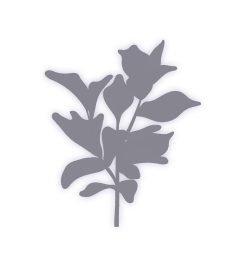
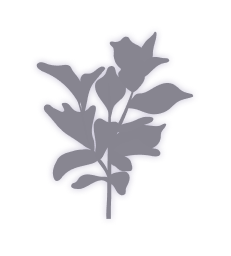
plant animation with progress

diff --git a/screens/timer-screen.tsx b/screens/timer-screen.tsx
@@ -18,7 +18,7 @@ import { Button } from "../components/elements/button";
 import { Habit } from "../types/habit";
 import { useSelector } from "react-redux";
 import { GlobalStore } from "../redux/store";
-import { Clock, useDerivedValue } from "react-native-reanimated";
+import InfoIcon from "../components/svgs/info-icon";
 
 const { width: screenWidth, height: screenHeight } = Dimensions.get("screen");
 
@@ -64,6 +64,11 @@ export const TimerScreen = () => {
     }
   });
 
+  const curProgress: number =
+    (((timer - (habit?.duration || 1) * 60) * -1) /
+      ((habit?.duration || 1) * 60)) *
+    100;
+
   useEffect(() => {
     if (timer === 0) {
       if (timerCounter.current) {
@@ -91,6 +96,17 @@ export const TimerScreen = () => {
     setState(state === "stopped" || state === "paused" ? "playing" : "paused");
   };
 
+  let plantResource = require("../assets/plant/plant_dark.png");
+  if (state === "stopped") {
+    plantResource = require("../assets/plant/plant_dark.png");
+  } else if (curProgress >= 0 && curProgress < 50 && state !== "stopped") {
+    plantResource = require("../assets/plant/plant_small.png");
+  } else if (curProgress >= 100) {
+    plantResource = require("../assets/plant/plant_glow.png");
+  } else {
+    plantResource = require("../assets/plant/plant_normal.png");
+  }
+
   return (
     <View style={TimeScreenStyles.container}>
       <LinearGradient
@@ -117,11 +133,7 @@ export const TimerScreen = () => {
           <AnimatedCircularProgress
             size={screenWidth - 32 - 54}
             width={5}
-            fill={
-              (((timer - (habit?.duration || 1) * 60) * -1) /
-                ((habit?.duration || 1) * 60)) *
-              100
-            }
+            fill={curProgress}
             tintColor="#fff"
             lineCap="round"
             rotation={-145}
@@ -135,26 +147,55 @@ export const TimerScreen = () => {
               style={TimeScreenStyles.pot}
             />
             <MotiView
-              from={{ height: 0, translateX: /*small*/ false ? 9 : 6 }}
-              animate={{
-                height: /*small*/ false ? 48.35 : 255.4,
-                translateX: /*small*/ false ? 9 : 6,
+              from={{
+                height: 0,
+                bottom: 24,
+                translateX:
+                  curProgress >= 0 && curProgress < 50 && state !== "stopped"
+                    ? 9
+                    : 6,
               }}
-              transition={{ type: "timing" }}
-              style={[
-                TimeScreenStyles.thePlant,
-                {
-                  bottom: /*small*/ false ? 75 : 24,
+              animate={{
+                height:
+                  curProgress >= 0 && curProgress < 50 && state !== "stopped"
+                    ? 48.35
+                    : (curProgress / 100 || 1) * 255.4,
+                translateX:
+                  curProgress >= 0 && curProgress < 50 && state !== "stopped"
+                    ? 9
+                    : 6,
+                bottom:
+                  curProgress >= 0 && curProgress < 50 && state !== "stopped"
+                    ? 75
+                    : curProgress > 50 && state !== "ended"
+                    ? (1 - curProgress / 100 + 0.35 || 1) * 75
+                    : 24,
+              }}
+              transition={{
+                type: "timing",
+                duration: curProgress > 0 ? 3000 : 100,
+                translateX: {
+                  type: "timing",
+                  duration: 100,
                 },
-              ]}
+                bottom: {
+                  type: "timing",
+                  duration: curProgress > 0 ? 2000 : 100,
+                },
+              }}
+              style={TimeScreenStyles.thePlant}
             >
               <Image
-                source={require(`../assets/plant/plant_${plantFill}.png`)}
+                source={plantResource}
                 style={TimeScreenStyles.plantImage}
               />
             </MotiView>
           </View>
-          <View style={TimeScreenStyles.timer}>
+          <MotiView
+            from={{ opacity: 0 }}
+            animate={{ opacity: state === "ended" ? 0 : 1 }}
+            style={TimeScreenStyles.timer}
+          >
             <MotiView
               from={{ opacity: 0 }}
               animate={{ opacity: state === "playing" ? 0.2 : 0 }}
@@ -174,7 +215,7 @@ export const TimerScreen = () => {
                 ? `0${Math.floor(timer / 60)}`
                 : Math.floor(timer / 60)
             }:${timer % 60 < 10 ? `0${timer % 60}` : timer % 60}`}</Text>
-          </View>
+          </MotiView>
         </View>
         <View style={TimeScreenStyles.timerControls}>
           <Button
@@ -212,6 +253,15 @@ export const TimerScreen = () => {
               isAccentButton={true}
               onPress={() => {}}
             />
+            <View style={TimeScreenStyles.footerInfoSection}>
+              <InfoIcon
+                style={[TimeScreenStyles.footerInfoIcon, CommonStyles.withIcon]}
+                fill="#fff"
+              />
+              <Text style={TimeScreenStyles.footerInfoText}>
+                Hit SUBMIT to infuse your habit with the light you've built up.
+              </Text>
+            </View>
           </View>
         )}
       </View>
@@ -364,6 +414,28 @@ const TimeScreenStyles = StyleSheet.create({
   footer: {
     display: "flex",
     alignItems: "center",
-    marginTop: -20,
+    marginTop: -10,
+  },
+  footerInfoSection: {
+    display: "flex",
+    flexDirection: "row",
+    paddingHorizontal: 8,
+    paddingVertical: 16,
+    marginTop: 16,
+    backgroundColor: "rgba(12, 8, 52, 0.6)",
+    borderRadius: 16,
+    marginHorizontal: "9%",
+  },
+  footerInfoIcon: {
+    width: 14,
+    height: 14,
+    opacity: 0.5,
+  },
+  footerInfoText: {
+    fontFamily: "Rubik-Regular",
+    fontSize: 16,
+    lineHeight: 24,
+    color: "#fff",
+    opacity: 0.66,
   },
 });
